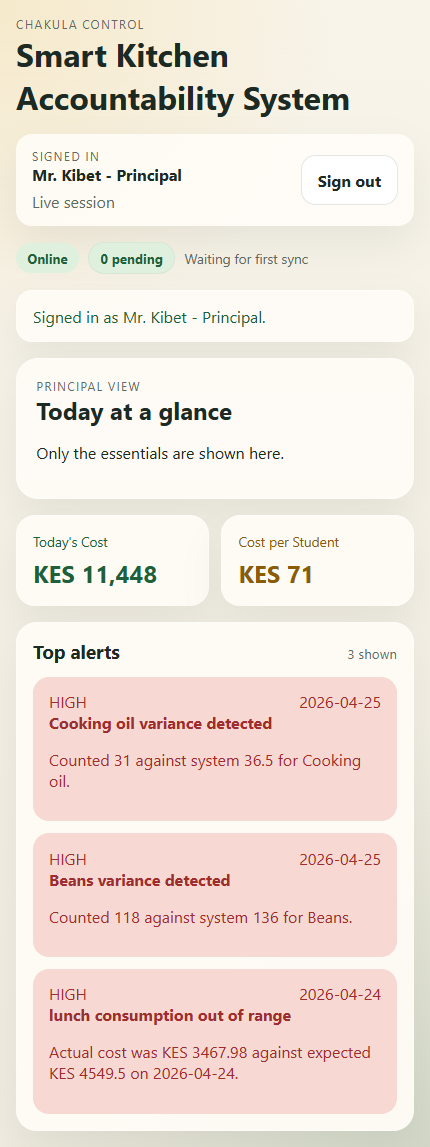
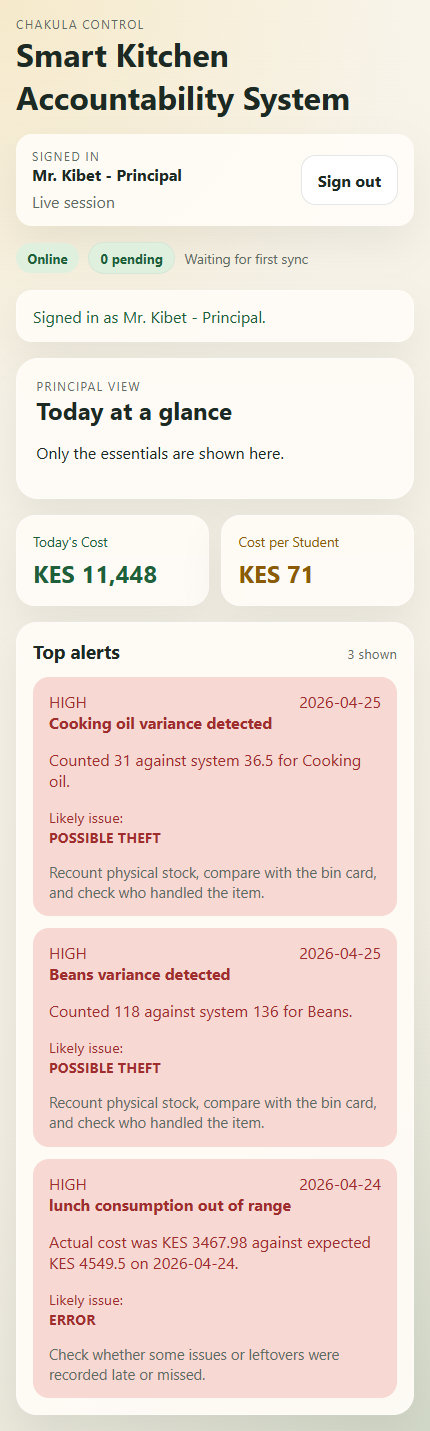
Add issue classification for kitchen anomalies

diff --git a/data/logic.js b/data/logic.js
@@ -100,8 +100,50 @@ function buildGroupedTotals(records, quantityField = "quantity") {
   return grouped;
 }
 
+export function assessAlert(alert) {
+  if (!alert) {
+    return null;
+  }
+
+  if (alert.issue_assessment && alert.action_hint) {
+    return alert;
+  }
+
+  const actualCost = safeNumber(alert.actual_cost_kes);
+  const expectedCost = safeNumber(alert.expected_cost_kes);
+  const varianceQuantity = safeNumber(alert.variance_quantity);
+  let issueAssessment = "ERROR";
+  let actionHint = "Review the record and compare it with the paper note or bin card.";
+
+  if (alert.alert_type === "duplicate_issue") {
+    issueAssessment = "ERROR";
+    actionHint = "Check for a duplicate paper entry before issuing more stock.";
+  } else if (alert.alert_type === "missing_leftover") {
+    issueAssessment = "ERROR";
+    actionHint = "Ask the cook whether leftovers existed or the leftover log was skipped.";
+  } else if (alert.alert_type === "stock_mismatch") {
+    issueAssessment = alert.severity === "HIGH" || varianceQuantity < 0 ? "POSSIBLE_THEFT" : "ERROR";
+    actionHint =
+      issueAssessment === "POSSIBLE_THEFT"
+        ? "Recount physical stock, compare with the bin card, and check who handled the item."
+        : "Repeat the count and correct the record if it was a counting error.";
+  } else if (alert.alert_type === "abnormal_consumption") {
+    issueAssessment = actualCost > expectedCost ? "WASTE" : "ERROR";
+    actionHint =
+      issueAssessment === "WASTE"
+        ? "Review portions, preparation losses, and whether too much stock was issued."
+        : "Check whether some issues or leftovers were recorded late or missed.";
+  }
+
+  return {
+    ...alert,
+    issue_assessment: issueAssessment,
+    action_hint: actionHint,
+  };
+}
+
 export function sortAlerts(alerts) {
-  return [...alerts].sort((left, right) => {
+  return [...alerts].map(assessAlert).sort((left, right) => {
     const leftSeverity = SEVERITY_RANK[left.severity] || 0;
     const rightSeverity = SEVERITY_RANK[right.severity] || 0;
 
@@ -178,6 +220,7 @@ export function detectAnomaliesFromRecords({
       severity: "HIGH",
       title: `${item?.name || "Item"} issued twice`,
       message: `${item?.name || "Item"} was issued ${records.length} times for ${mealType.toLowerCase()} on ${dateKey}.`,
+      duplicate_count: records.length,
       item_id: Number(itemId) || null,
       meal_type: mealType,
       date_time: records[records.length - 1].date_time,
@@ -225,6 +268,9 @@ export function detectAnomaliesFromRecords({
       message: `Counted ${record.counted_quantity ?? 0} against system ${record.system_quantity ?? 0} for ${
         inventoryMap.get(record.item_id)?.name || "this item"
       }.`,
+      counted_quantity: record.counted_quantity ?? null,
+      system_quantity: record.system_quantity ?? null,
+      variance_quantity: record.variance_quantity ?? null,
       item_id: record.item_id ?? null,
       meal_type: normalizeMealType(record.meal_type),
       date_time: record.date_time,
@@ -262,6 +308,9 @@ export function detectAnomaliesFromRecords({
         severity: Math.abs(1 - ratio) > 0.2 ? "HIGH" : "LOW",
         title: `${mealType.toLowerCase()} consumption out of range`,
         message: `Actual cost was KES ${roundValue(actualCost)} against expected KES ${roundValue(expectedCost)} on ${dateKey}.`,
+        actual_cost_kes: roundValue(actualCost),
+        expected_cost_kes: roundValue(expectedCost),
+        variance_kes: roundValue(actualCost - expectedCost),
         item_id: null,
         meal_type: mealType,
         date_time: `${dateKey}T23:00:00+03:00`,

diff --git a/src/pages/ReportsPage.jsx b/src/pages/ReportsPage.jsx
@@ -21,8 +21,8 @@ export default function ReportsPage({ summaries, alerts, reportInsights }) {
       <div className="metric-grid">
         <MetricCard label="Average Daily Cost" value={reportInsights?.averageDailyCost || 0} />
         <MetricCard label="Avg Cost per Student" value={reportInsights?.averageCostPerStudent || 0} accent="amber" />
-        <MetricCard label="High Alerts" value={reportInsights?.highAlertCount || 0} type="plain" accent="terracotta" />
-        <MetricCard label="Missing Leftovers" value={reportInsights?.missingLeftoverCount || 0} type="plain" accent="slate" />
+        <MetricCard label="Possible Theft" value={reportInsights?.issueAssessmentCounts?.POSSIBLE_THEFT || 0} type="plain" accent="terracotta" />
+        <MetricCard label="Waste Risks" value={reportInsights?.issueAssessmentCounts?.WASTE || 0} type="plain" accent="slate" />
       </div>
 
       <section className="panel">
@@ -73,6 +73,36 @@ export default function ReportsPage({ summaries, alerts, reportInsights }) {
               <p>Waste estimate: {formatKes(meal.waste_estimate_kes)}</p>
             </article>
           ))}
+        </div>
+      </section>
+
+      <section className="panel">
+        <div className="panel__header">
+          <h3>Likely issue mix</h3>
+          <span>School-friendly language</span>
+        </div>
+        <div className="report-list">
+          <article className="report-card">
+            <div className="report-card__topline">
+              <strong>Possible theft</strong>
+              <span>{reportInsights?.issueAssessmentCounts?.POSSIBLE_THEFT || 0}</span>
+            </div>
+            <p>Usually driven by serious stock mismatch after count.</p>
+          </article>
+          <article className="report-card">
+            <div className="report-card__topline">
+              <strong>Waste</strong>
+              <span>{reportInsights?.issueAssessmentCounts?.WASTE || 0}</span>
+            </div>
+            <p>Usually driven by consumption above plan or unusual leftover cost.</p>
+          </article>
+          <article className="report-card">
+            <div className="report-card__topline">
+              <strong>Recording error</strong>
+              <span>{reportInsights?.issueAssessmentCounts?.ERROR || 0}</span>
+            </div>
+            <p>Usually driven by missing leftovers, duplicate issues, or low consumption gaps.</p>
+          </article>
         </div>
       </section>
 

diff --git a/tests/logic.test.js b/tests/logic.test.js
@@ -3,6 +3,7 @@ import assert from "node:assert/strict";
 import { DEMO_DATA } from "../data/demoData.js";
 import { buildActivityFeed, buildInventorySnapshot, buildReportInsights } from "../data/derivedData.js";
 import {
+  assessAlert,
   buildDailySummaries,
   buildPrincipalSnapshot,
   calculateConsumption,
@@ -29,6 +30,23 @@ test("demo dataset produces all required anomaly types", () => {
   assert.ok(alertTypes.has("missing_leftover"));
   assert.ok(alertTypes.has("stock_mismatch"));
   assert.ok(alertTypes.has("abnormal_consumption"));
+});
+
+test("alert assessments translate anomalies into waste, error, or possible theft", () => {
+  const duplicateAlert = assessAlert({ alert_type: "duplicate_issue", severity: "HIGH" });
+  const missingLeftoverAlert = assessAlert({ alert_type: "missing_leftover", severity: "MEDIUM" });
+  const theftAlert = assessAlert({ alert_type: "stock_mismatch", severity: "HIGH", variance_quantity: -18 });
+  const wasteAlert = assessAlert({
+    alert_type: "abnormal_consumption",
+    severity: "HIGH",
+    actual_cost_kes: 6200,
+    expected_cost_kes: 5000,
+  });
+
+  assert.equal(duplicateAlert.issue_assessment, "ERROR");
+  assert.equal(missingLeftoverAlert.issue_assessment, "ERROR");
+  assert.equal(theftAlert.issue_assessment, "POSSIBLE_THEFT");
+  assert.equal(wasteAlert.issue_assessment, "WASTE");
 });
 
 test("daily summaries collapse to the expected seven demo days", () => {
@@ -88,6 +106,8 @@ test("report insights highlight cost, waste, and missing leftover pressure point
   assert.equal(insights.highestWasteDay?.date, "2026-04-23");
   assert.ok(insights.highAlertCount >= 1);
   assert.ok(insights.missingLeftoverCount >= 2);
+  assert.ok(insights.issueAssessmentCounts.POSSIBLE_THEFT >= 1);
+  assert.ok(insights.issueAssessmentCounts.ERROR >= 1);
   assert.ok(insights.mealWatchlist.length >= 1);
 });
 

diff --git a/data/derivedData.js b/data/derivedData.js
@@ -250,6 +250,17 @@ export function buildReportInsights(summaries = [], alerts = []) {
         summaries.reduce((total, summary) => total + safeNumber(summary.cost_per_student_kes), 0) / summaries.length,
       )
     : 0;
+  const issueAssessmentCounts = alerts.reduce((counts, alert) => {
+    const key = alert.issue_assessment || "ERROR";
+    return {
+      ...counts,
+      [key]: safeNumber(counts[key]) + 1,
+    };
+  }, {
+    WASTE: 0,
+    ERROR: 0,
+    POSSIBLE_THEFT: 0,
+  });
 
   return {
     highestCostDay,
@@ -260,5 +271,6 @@ export function buildReportInsights(summaries = [], alerts = []) {
     mealWatchlist,
     highAlertCount: alerts.filter((alert) => alert.severity === "HIGH").length,
     missingLeftoverCount: alerts.filter((alert) => alert.alert_type === "missing_leftover").length,
+    issueAssessmentCounts,
   };
 }

diff --git a/src/components/AlertList.jsx b/src/components/AlertList.jsx
@@ -13,9 +13,14 @@ export default function AlertList({ alerts, emptyMessage = "No alerts right now.
           </div>
           <strong>{alert.title}</strong>
           <p>{alert.message}</p>
+          {alert.issue_assessment && (
+            <p className="alert-card__assessment">
+              Likely issue: <strong>{String(alert.issue_assessment).replaceAll("_", " ")}</strong>
+            </p>
+          )}
+          {alert.action_hint && <p className="alert-card__hint">{alert.action_hint}</p>}
         </article>
       ))}
     </div>
   );
 }
-

diff --git a/tests/api.test.js b/tests/api.test.js
@@ -192,6 +192,7 @@ test("principal alerts endpoint stays limited to high-severity items", async () 
   assert.equal(body.success, true);
   assert.ok(body.alerts.length <= 3);
   assert.ok(body.alerts.every((alert) => alert.severity === "HIGH"));
+  assert.ok(body.alerts.every((alert) => alert.issue_assessment));
 });
 
 test("reports endpoint returns the full seven-day simulation", async () => {

diff --git a/src/styles.css b/src/styles.css
@@ -454,6 +454,20 @@ button {
   margin-bottom: 0.2rem;
 }
 
+.alert-card__assessment,
+.alert-card__hint {
+  margin-bottom: 0;
+}
+
+.alert-card__assessment {
+  font-size: 0.9rem;
+}
+
+.alert-card__hint {
+  color: var(--muted);
+  font-size: 0.92rem;
+}
+
 .report-card__meals {
   display: flex;
   flex-wrap: wrap;

diff --git a/docs/demo-flow.md b/docs/demo-flow.md
@@ -40,6 +40,7 @@ Show that the system works in messy school reality:
 - "The Principal sees only the essentials, not a complicated stock screen."
 - "Admin can still trace late entries, conflicts, and alerts without touching the kitchen workflow."
 - "The system helps separate normal variance from duplicate issues, missing leftovers, and stock mismatches."
+- "Each alert is translated into likely waste, recording error, or possible theft with a next check to do."
 
 ## Screenshot set
 

diff --git a/README.md b/README.md
@@ -13,6 +13,7 @@ Offline-first Smart Kitchen Accountability System built for low-resource boardin
 - Dedicated daily student count capture for cost-per-student accuracy
 - Admin audit trail view built from local-first activity records
 - CSV backfill import for paper records and late entry cleanup
+- Alerts translated into likely `WASTE`, `ERROR`, or `POSSIBLE_THEFT`
 - Seven-day Kenyan demo dataset with realistic items, KES pricing, anomalies, and cost outputs
 
 ## Quick start

diff --git a/docs/final-validation.md b/docs/final-validation.md
@@ -92,6 +92,7 @@ Runtime diagnostics note:
   - Top alerts by severity
   - Weekly meal watchlist
   - Admin activity trail for who captured what
+  - Likely issue labels: waste, error, or possible theft
 
 - Demo data feels real:
   - Kenyan staple inventory
